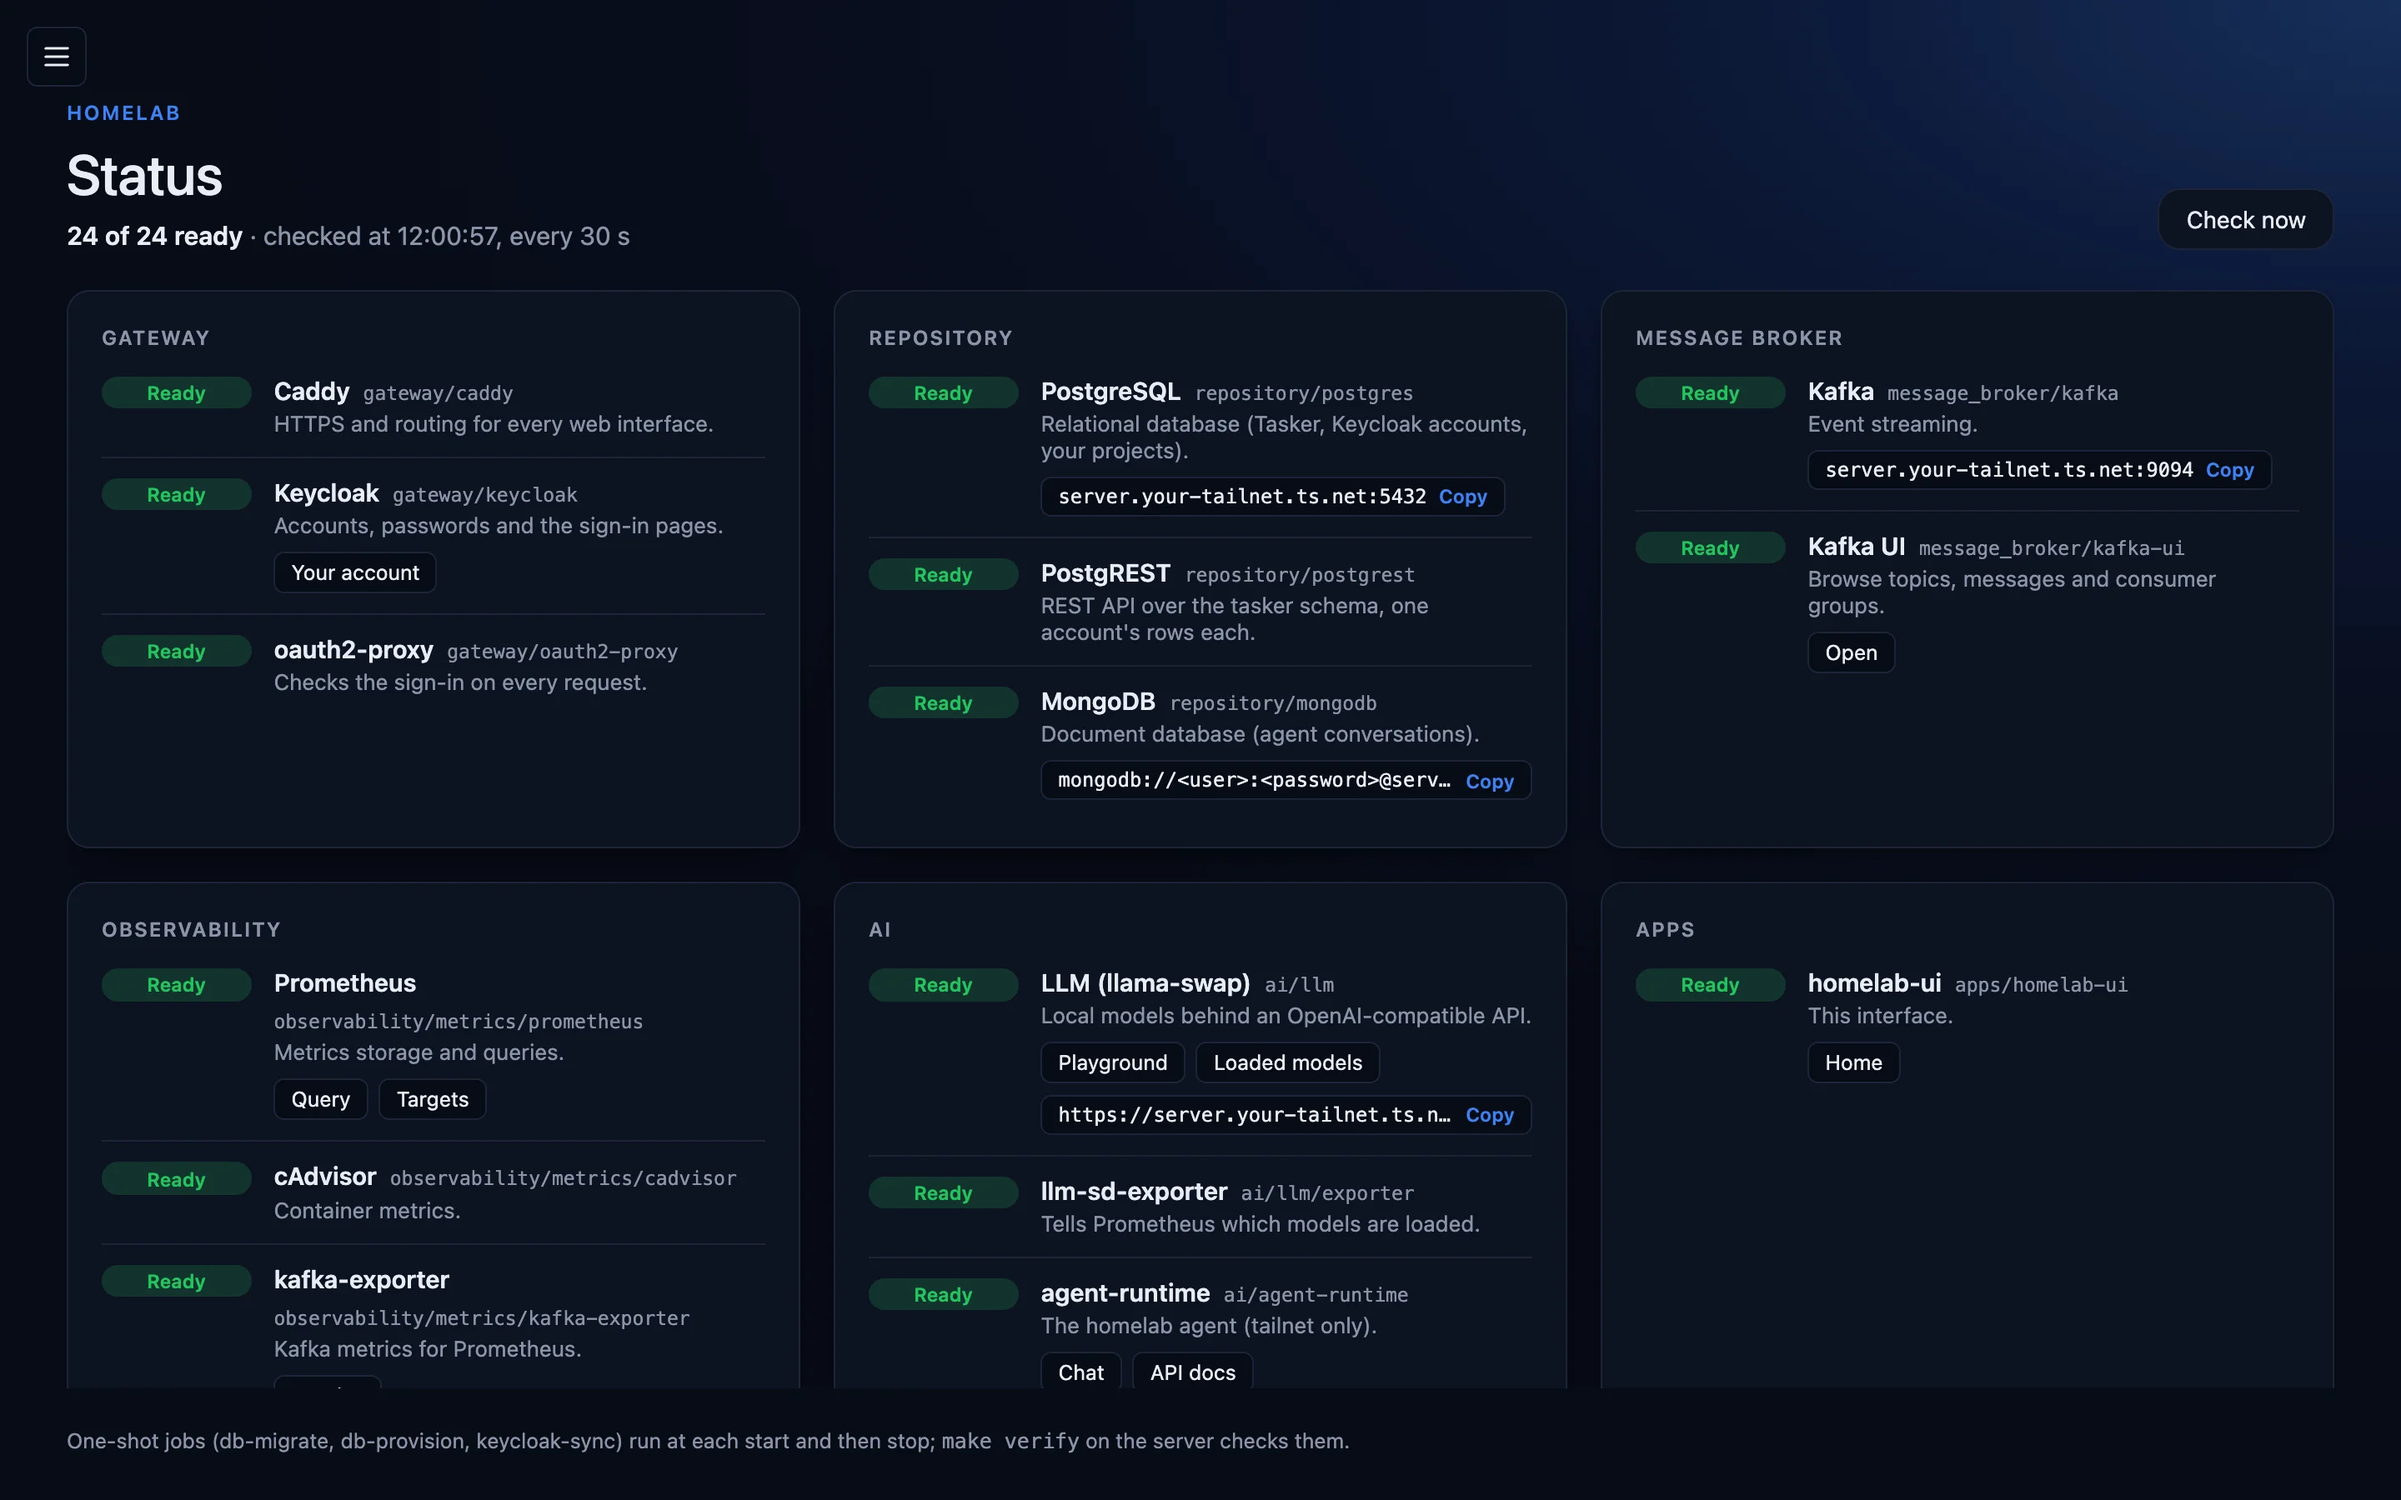
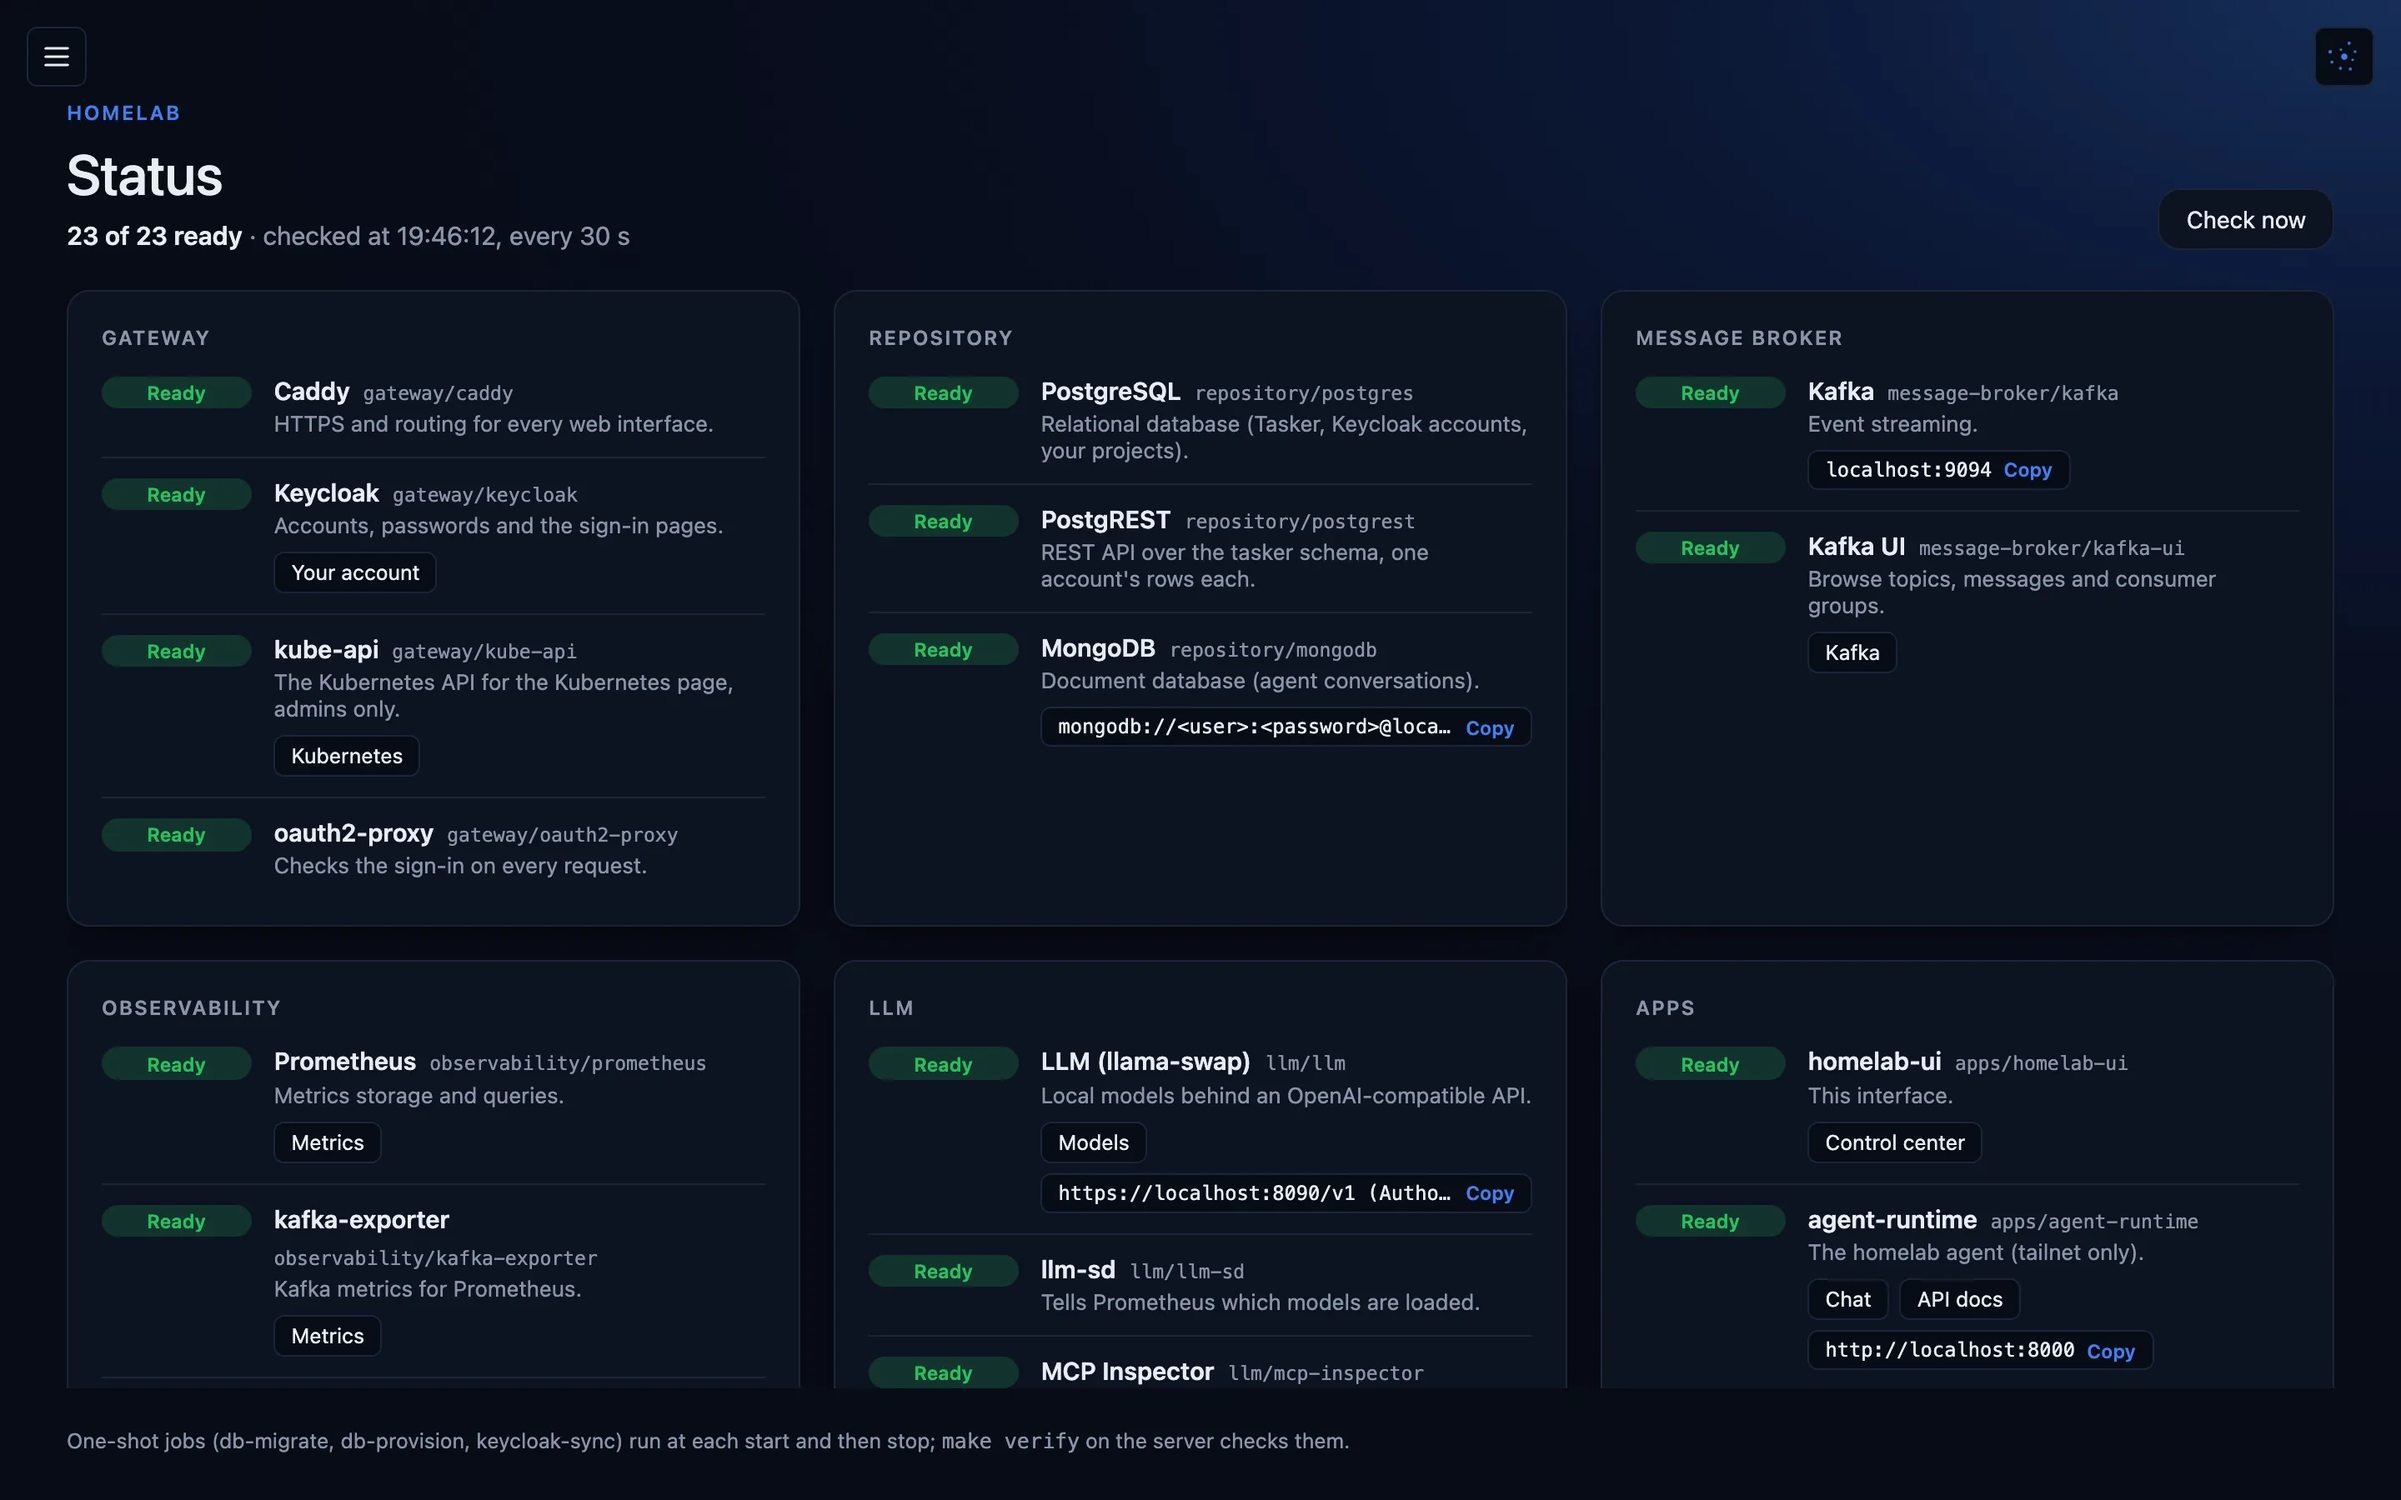
docs(readme): update control center description and add screenshots
- Revise control center page overview for clearer information hierarchy
- Replace several screenshots with updated control center images
- Add new section with dashboards, metrics, logs, traces, Kafka, Kubernetes, models, and tools screenshots
- Describe admin capabilities with confirmation prompts for destructive actions
- Improve explanation of agent streaming response with status dots animation
- Enhance assistant panel description including resizing and interaction hints
- Update menu description to show Kubernetes page only for admins
- Adjust mobile description and screenshots for control center focus
- Increment version to 1.1.2 and add minor style adjustment in control-center-page.scss

diff --git a/src/app/features/control-center/pages/control-center-page/control-center-page.scss b/src/app/features/control-center/pages/control-center-page/control-center-page.scss
@@ -36,6 +36,10 @@
 .cc__attention {
   border-color: color-mix(in srgb, var(--warning) 45%, var(--border));
 
+  > strong {
+    margin-right: 0.4rem;
+  }
+
   &--ok {
     border-color: color-mix(in srgb, var(--success) 45%, var(--border));
   }

diff --git a/README.md b/README.md
@@ -6,13 +6,13 @@
 
 **Everything running in your homelab, in one place — and an assistant that can do the work for you.**
 
-<img src="docs/screenshots/home.webp" alt="The Homelab overview: Status, Account, Agent, Models, MCP Inspector, Tasker, Grafana, Prometheus and Alloy as tiles grouped by Platform, AI, Automation and Observability, each with its online status" />
+<img src="docs/screenshots/control-center.webp" alt="The control center: All good, the server's CPU, memory, disk and temperature gauges with their last 24 hours, then the data, LLM and Kubernetes cards and the busiest containers" />
 
 </div>
 
 ## Your homelab at a glance
 
-The **control center** is the first page: what needs your attention (firing alerts, a disk filling up, a pod that isn't ready, a backup that didn't run), the server's CPU, memory, disk and temperature with their last 24 hours, the databases and Kafka, the LLM's speed and loaded models, the busiest containers, the last error lines, and every app with its online status. It checks again every 30 seconds; each card opens the page behind it.
+The **control center** is the first page. At the top, what needs your attention: a firing alert, a disk filling up, a pod that isn't ready, a backup that didn't run — or **All good**. Below, the server's CPU, memory, disk and temperature with their last 24 hours, the databases and Kafka, the LLM's speed and loaded models, the pods, the busiest containers, the last error lines, and every app with its online status. It checks again every 30 seconds; each card opens the page behind it.
 
 ## Every tool, inside the homelab
 
@@ -31,6 +31,29 @@ Each tool has its own page here, in your theme, with no new tab to open:
 | **Account**    | Your name and email, your devices and sessions (sign one out), and changing your password                                                                                               |
 | **Kubernetes** | Admins only: nodes, pods, workloads, services, volumes, secrets and events; scale, restart, run a cron job now, delete, edit an object's YAML, read a pod's logs and open a shell in it |
 
+<table>
+  <tr>
+    <td><img src="docs/screenshots/dashboards.webp" alt="Dashboards: the Homelab overview with CPU, memory and disk gauges, CPU by mode and load average charts" /></td>
+    <td><img src="docs/screenshots/metrics.webp" alt="Metrics: a PromQL query for memory by container drawn over the last hour" /></td>
+  </tr>
+  <tr>
+    <td><img src="docs/screenshots/logs.webp" alt="Logs: lines over time by level, then each container's lines newest first, one opened with its labels" /></td>
+    <td><img src="docs/screenshots/traces.webp" alt="Traces: a list of requests and one opened as a waterfall of its spans, a tool call selected with its attributes" /></td>
+  </tr>
+  <tr>
+    <td><img src="docs/screenshots/kafka.webp" alt="Kafka: the topics with their size, and one topic's latest messages, one opened as formatted JSON" /></td>
+    <td><img src="docs/screenshots/kubernetes.webp" alt="Kubernetes: the pods of the homelab namespace and one opened with its containers and conditions" /></td>
+  </tr>
+  <tr>
+    <td><img src="docs/screenshots/models.webp" alt="Models: the loaded and unloaded models with Load and Unload, a prompt box and the LLM's logs" /></td>
+    <td><img src="docs/screenshots/tools.webp" alt="Tools: the toolbox's tools, read_file filled in with a path and its result" /></td>
+  </tr>
+</table>
+
+Admins can change things where it makes sense — scale a deployment, delete a topic, unload a model — and every change that can't be undone asks you to confirm it first, the way the server's `make` commands do.
+
+<img src="docs/screenshots/account.webp" alt="Account: your profile, your password and when it was set, and your devices and sessions with Sign out" />
+
 ## Check every container
 
 The **Status** page lists every container of the homelab, grouped the way the server is organised — Gateway, Repository, Message broker, Observability, LLM, Apps — each marked **Ready**, **Not ready** or **Unknown**. The top line counts how many are ready; the page checks again every 30 seconds, or at once with **Check now**.
@@ -41,15 +64,15 @@ Every service also carries what you need to use it:
 - its **connection address**, ready to copy — the MongoDB URI, Kafka's bootstrap server, the OTLP endpoints, the LLM's OpenAI-compatible URL;
 - the **folder** it lives in on the server, for when you need to look at its configuration.
 
-<img src="docs/screenshots/status.webp" alt="The Status page: 24 of 24 ready, with Gateway, Repository, Message broker, Observability, AI and Apps panels listing each container as Ready, its folder, links and a copyable connection address" />
+<img src="docs/screenshots/status.webp" alt="The Status page: every container Ready, grouped Gateway, Repository, Message broker, Observability, LLM and Apps, each with its folder, links to its page and a copyable connection address" />
 
 ## Ask the agent
 
 Ask in plain words, the way you would ask a colleague: _"Summarise sales.csv by region"_, _"What's in change.md?"_, _"Which tools can you use?"_.
 
-A question it can answer straight away — _"What is a KV cache?"_ — comes back **as it is written**: the words appear one after another, so you can start reading at once.
+A question it can answer straight away — _"What is a KV cache?"_ — comes back **as it is written**: the words appear one after another, so you can start reading at once. While the agent works, a small swarm of dots moves in your theme's colours: calm while it thinks, faster while it runs a tool, red if something went wrong.
 
-<img src="docs/screenshots/streaming.webp" alt="The agent writing its answer to 'What is a KV cache?' word by word" />
+<img src="docs/screenshots/streaming.webp" alt="The agent writing its answer to 'What is a KV cache?', the animated swarm next to the step it is on" />
 
 When a request needs real work — reading files, crunching numbers, saving a report — the agent first shows you **its plan**. Reply **yes** and it gets to work, showing what it is doing as it goes, then gives you the result. Reply **Drop plan** to cancel it, or say what to change and it comes back with a new plan.
 
@@ -61,7 +84,11 @@ Under each answer you see how long it took and how many tokens went in and out, 
 
 ## The assistant on every page
 
-The assistant button at the top right opens the agent beside any page. It is the same conversation as the Agent page: start a question on the Logs page, finish it on the Agent page. Choose the model or start a new conversation from the panel; **Esc** or the same button closes it. On a wide screen the page makes room for it.
+The assistant button at the top right opens the agent beside any page. It is the same conversation as the Agent page: ask about an error on the Logs page, carry on with it on the Agent page. Choose the model, start a new conversation, or open the Agent page from the panel; **Esc** or ✕ closes it.
+
+Drag the panel's left edge to make it wider or narrower (double-click it to reset); the width is remembered on that device, and on a wide screen the page makes room for it. Close the panel while the agent is working and the button keeps moving, so you know an answer is on its way.
+
+<img src="docs/screenshots/assistant.webp" alt="The Logs page with the assistant open beside it, answering why Caddy logged an error" />
 
 ## Stay in control
 
@@ -86,17 +113,17 @@ Build automations by connecting blocks on a canvas: a **Trigger**, **HTTP reques
 
 ## All your tools, one menu away
 
-The menu shows who is signed in, with **Sign out**, then lists every page. Below them, **Infrastructure** shows whether the services your apps rely on — PostgreSQL, MongoDB, Kafka — are **up**.
+The menu shows who is signed in, with **Sign out**, then lists every page; the Kubernetes page is listed only for admins. Below them, **Infrastructure** shows whether the services your apps rely on — PostgreSQL, MongoDB, Kafka — are **up**.
 
-<img src="docs/screenshots/menu.webp" alt="The side menu: the signed-in account with Sign out, every app and page with its colour, then PostgreSQL, MongoDB and Kafka marked Up" />
+<img src="docs/screenshots/menu.webp" alt="The side menu: the signed-in account with Sign out, every page with its colour, then PostgreSQL, MongoDB and Kafka marked Up" />
 
 ## On your phone too
 
-The same experience on a small screen: check your services, or ask the agent something from the sofa.
+The same experience on a small screen: glance at the control center, check your services, or ask the agent something from the sofa.
 
 <table>
   <tr>
-    <td><img src="docs/screenshots/phone-home.webp" width="260" alt="The overview on a phone" /></td>
+    <td><img src="docs/screenshots/phone-control-center.webp" width="260" alt="The control center on a phone" /></td>
     <td><img src="docs/screenshots/phone-status.webp" width="260" alt="The Status page on a phone" /></td>
     <td><img src="docs/screenshots/phone-chat.webp" width="260" alt="A conversation with the agent on a phone" /></td>
   </tr>
@@ -133,5 +160,7 @@ On any device on your Tailscale network, open `https://<your-server>.<tailnet>.t
 The left sidebar shows who is signed in, with a **Sign out** link that ends the session everywhere. The **Account** page changes your profile and password; passwords expire after 90 days, and the sign-in page then asks for a new one. The Kubernetes page, Kafka changes and unloading a model need the `admin` role (`make user-admin ACCOUNT=<name>` on the server).
 
 ---
+
+The screenshots show sample data.
 
 **Developers:** project structure, how addresses are built, adding a page or a status, the shared charts, and publishing the image — **[docs/development.md](docs/development.md)**.
